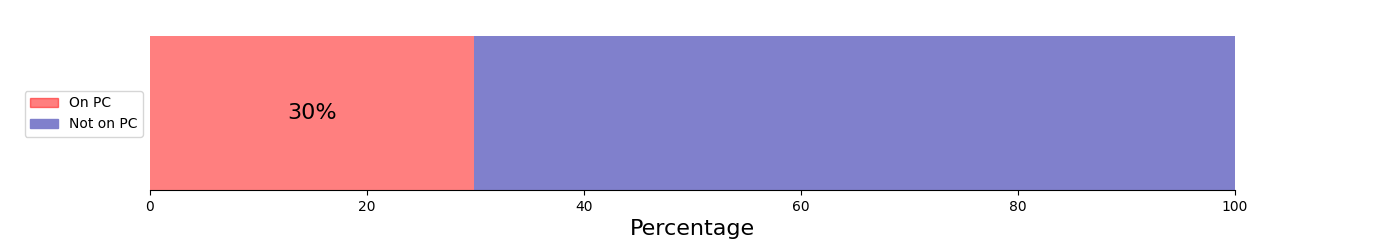
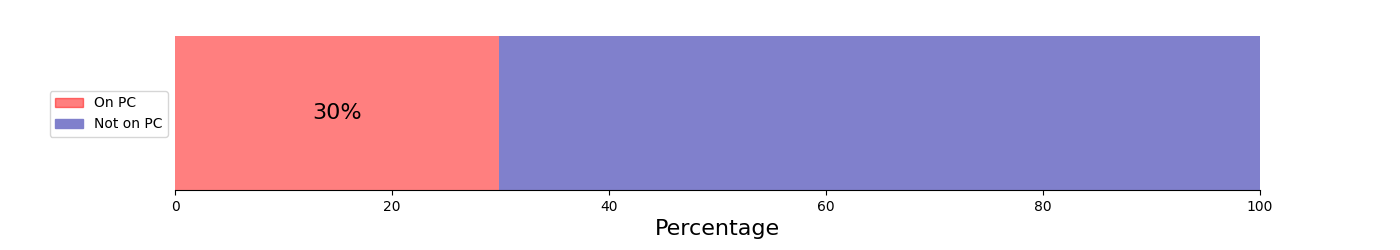
fix size?

diff --git a/Pi/readme/visualisation.py b/Pi/readme/visualisation.py
@@ -138,7 +138,7 @@ def percentage_plot(df, is_pi, color):
     plt.xlabel('Percentage', fontsize=16)
     handles = [plt.Rectangle((0, 0), 1, 1, color=COLORS[label]) for label in LABELS]
     plt.legend(handles, LABELS, bbox_to_anchor=(0, 0.06), loc="lower right")
-    plt.savefig(f"graphs/barplot/{color}-plot-{df['Timestamp'].min().strftime('%Y-%m-%d')}.png", bbox_inches=Bbox([[0.25, 0.5], [14, 3]]))
+    plt.savefig(f"graphs/barplot/{color}-plot-{df['Timestamp'].min().strftime('%Y-%m-%d')}.png", bbox_inches=Bbox([[0, 0.5], [14, 3]]))
     if not is_pi:
         plt.show()
 
